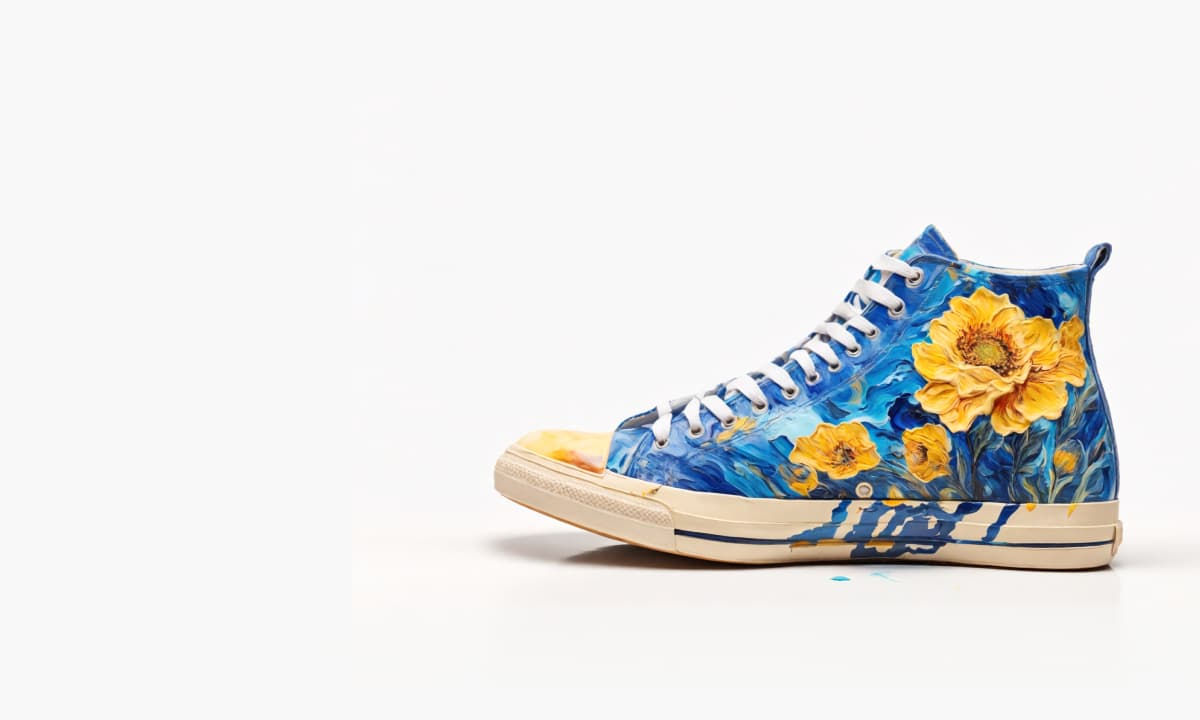
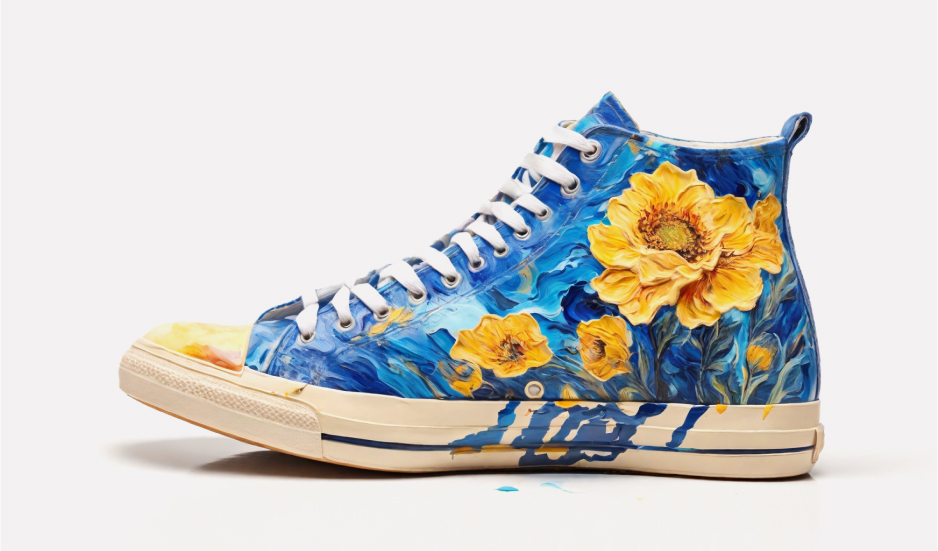
fixed hero

diff --git a/src/sections/Hero.jsx b/src/sections/Hero.jsx
@@ -2,7 +2,6 @@ import { useState } from 'react';
 import { motion } from 'framer-motion';
 import { shoes } from '../constants';
 import { bigShoe1, bigShoe2 } from '../assets/images';
-import { Favorite } from '../assets/icons';
 
 const textVariants = {
   initial: {
@@ -23,10 +22,10 @@ const Hero = () => {
   const [bigShoeImg, setBigShoeImg] = useState(bigShoe1);
 
   return (
-    <section className="container" id="hero">
-      <div className="relative pt-6 ss:pb-[60px] pb-8">
+    <section className="container pt-6 ss:pb-[60px] pb-8" id="hero">
+      <div className="relative bg-[#F3F1F1] rounded-[40px]  ">
         <motion.div
-          className="absolute lg:top-[110px] top-[8%] sm:left-14 left-[5%] right-[5%]"
+          className="relative z-10 md:py-20 sm:py-16 xs:py-14 py-10 sm:px-14 px-6 h-[80vh]"
           variants={textVariants}
           initial="initial"
           animate="animate">
@@ -36,7 +35,7 @@ const Hero = () => {
             New impressionism collection
           </motion.p>
           <motion.p
-            className={`font-lucky ss:text-[88px] text-[60px]  leading-[1] mb-5 ${
+            className={`font-lucky md:text-[88px] ss:text-[72px] xs:text-[60px] text-[50px] leading-[1] sm:mb-5 mb-3 ${
               bigShoeImg === bigShoe2 ? 'text-accent' : 'text-[#C54425]'
             }
             `}
@@ -44,7 +43,7 @@ const Hero = () => {
             Artistry in Motion:
           </motion.p>
           <motion.h1
-            className="sm:text-[44px] xs:text-4xl text-xl leading-[1.2] font-medium text-primary uppercase max-w-[550px] w-full mb-8"
+            className="sm:text-[44px] xs:text-4xl text-3xl leading-[1.2] font-medium text-primary uppercase max-w-[550px] w-full sm:mb-8 mb-4"
             variants={textVariants}>
             Discover Our Inspired Sneaker Collection
           </motion.h1>
@@ -60,12 +59,12 @@ const Hero = () => {
         <img
           src={bigShoeImg}
           alt="new collection"
-          width={1200}
-          height={720}
-          className="object-cover rounded-[40px]"
+          width={850}
+          height={500}
+          className="absolute z-1 bottom-0 right-0 max-w-[850px] w-full object-contain"
         />
 
-        <ul className="absolute  flex items-center gap-3 sm:bottom-[100px]  bottom-[8%] left-[5%] right-[5%]">
+        <ul className="absolute z-20 flex items-center gap-3 sm:bottom-[5%]  bottom-[3%] left-[5%] right-[5%]">
           {shoes.map((item, index) => (
             <li key={index}>
               <motion.img
